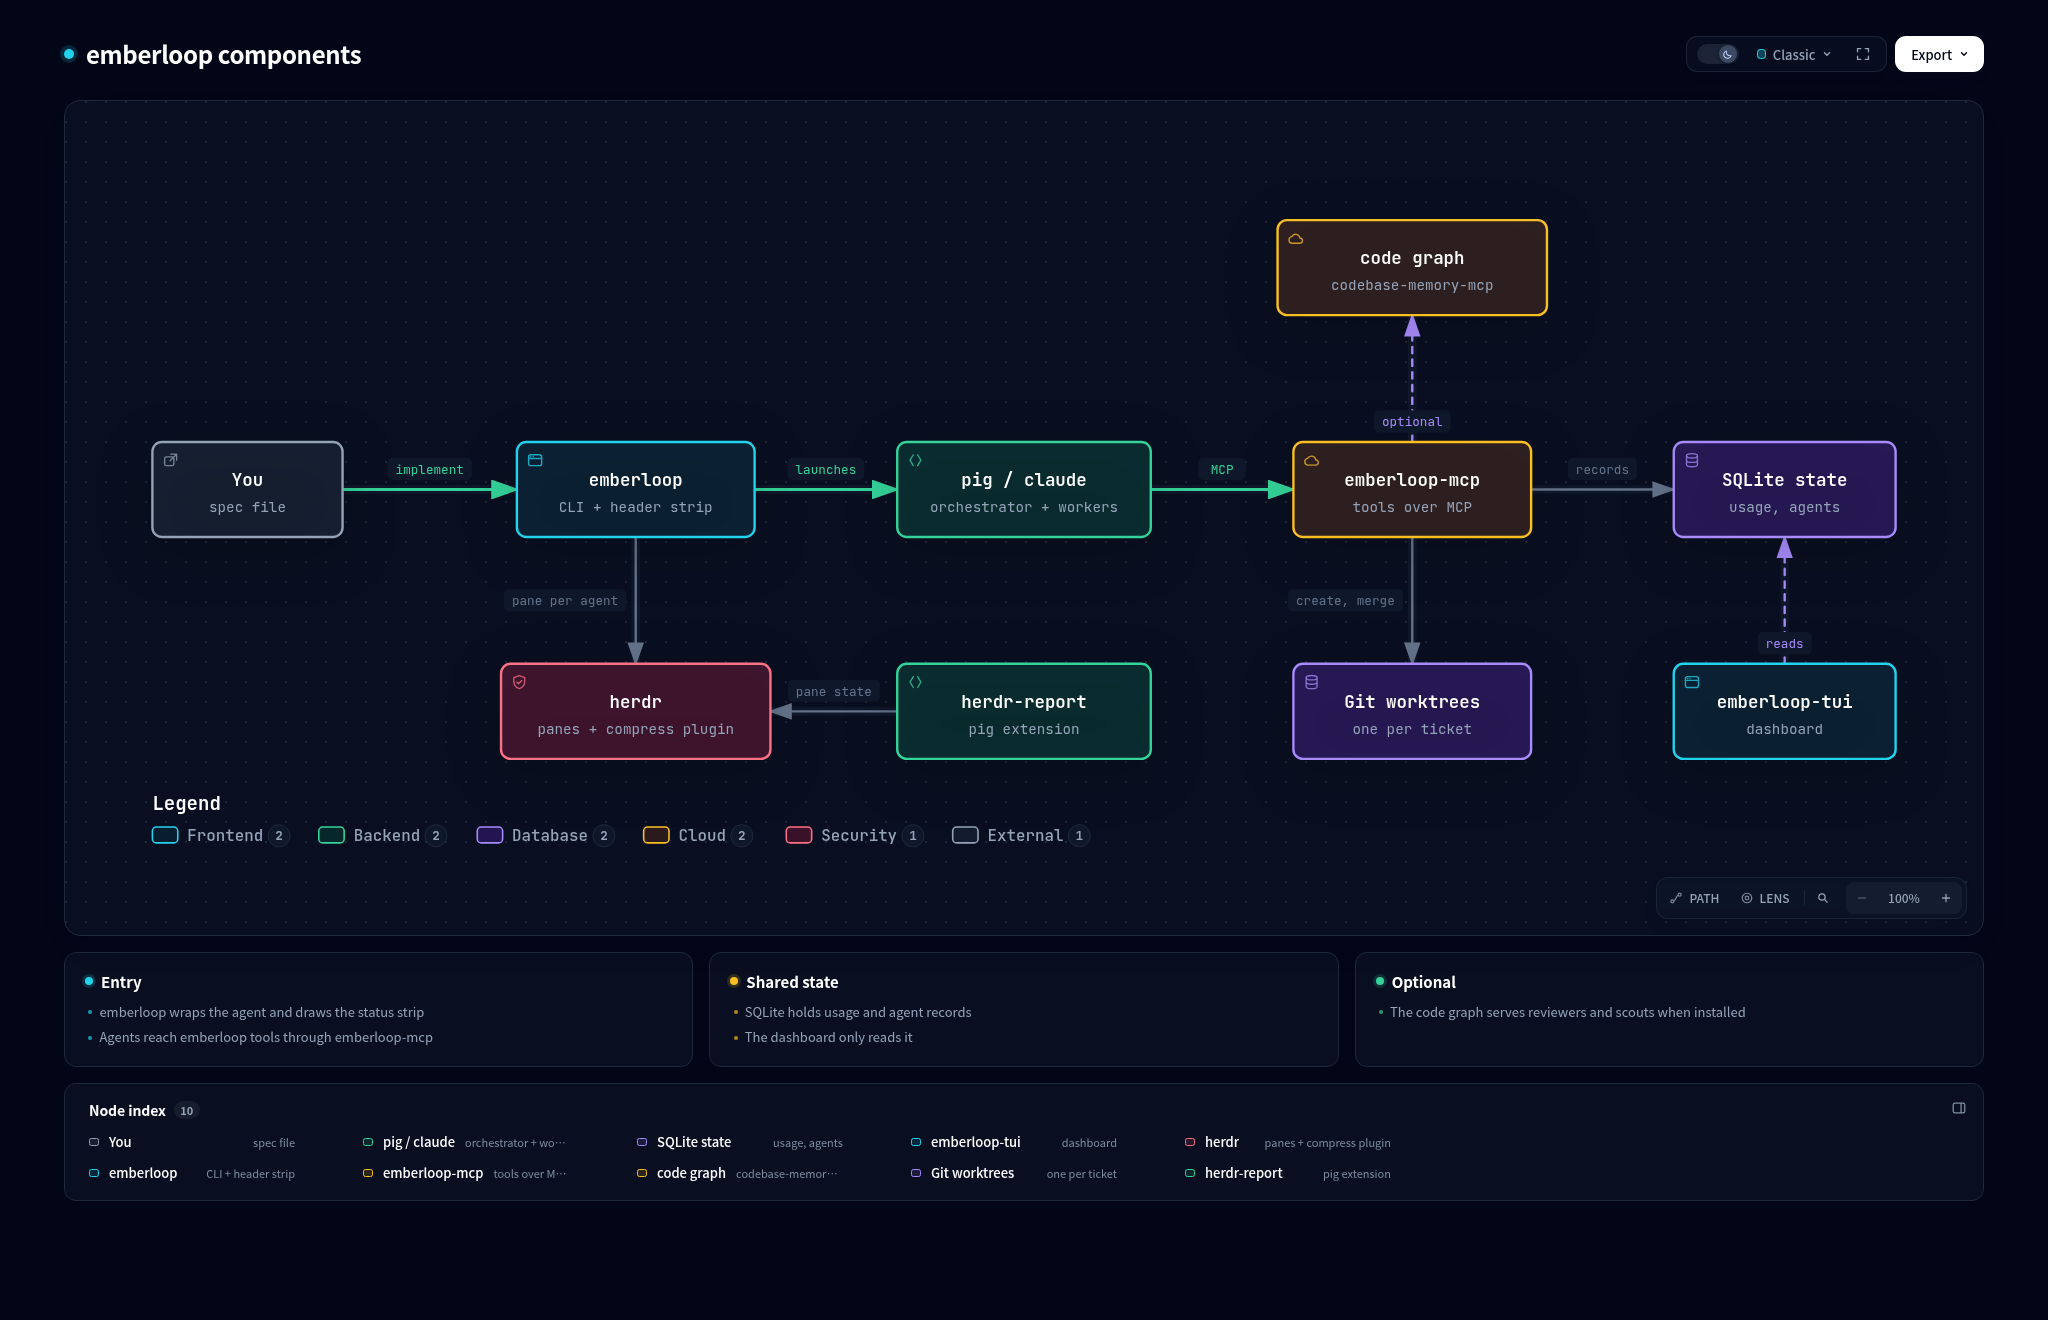
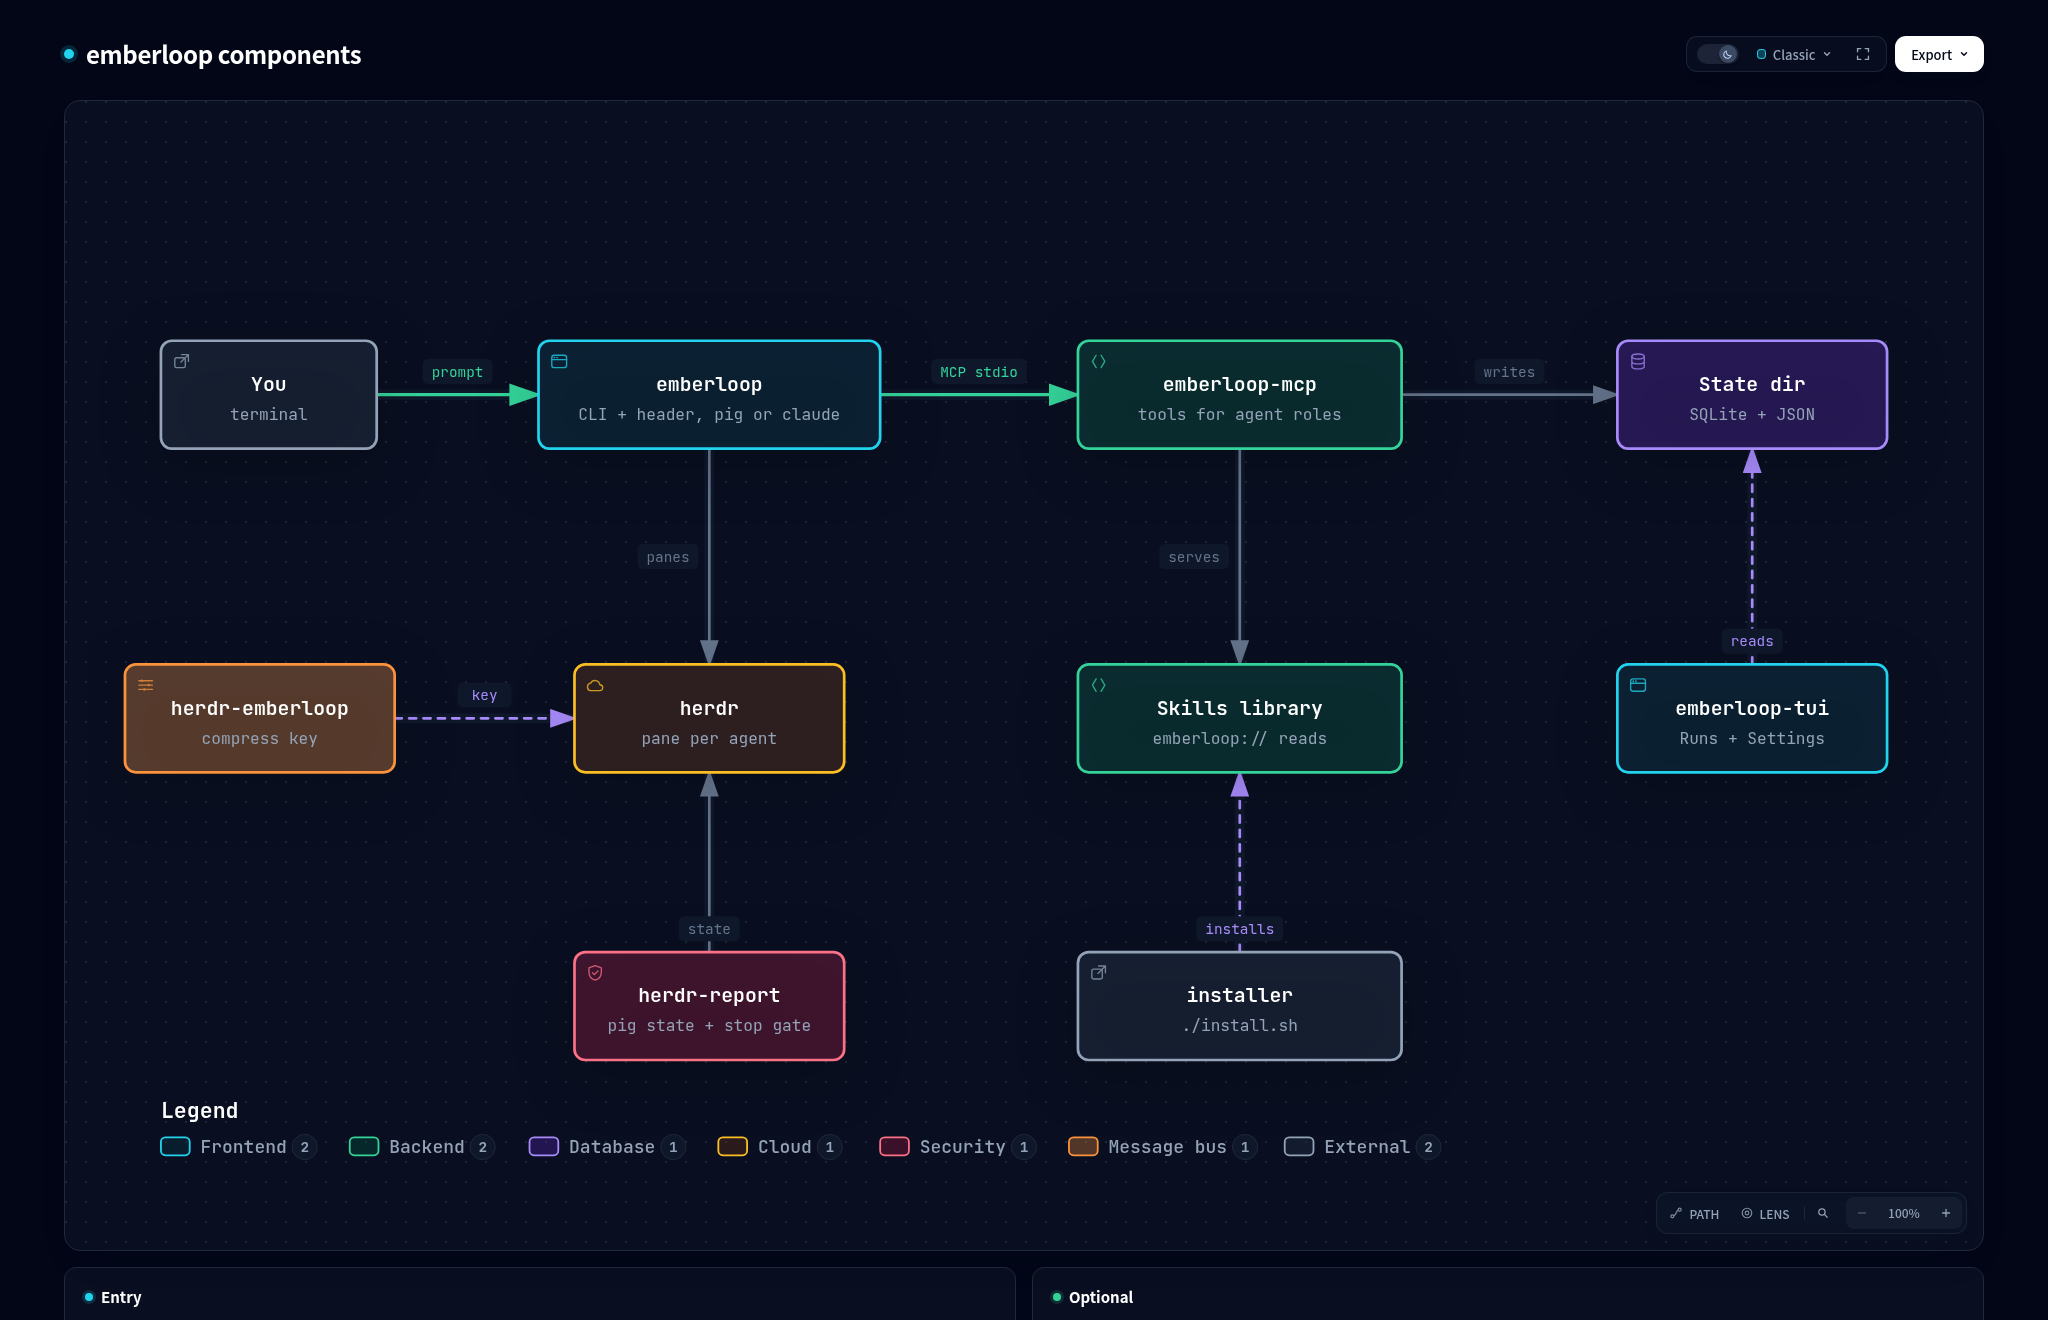
docs: rebuild diagrams and fix README gate wording; wait before Enter in herdr fallback delivery
Diagrams now show finish as rebase + ff-only after every required reviewer passes at the tip, plus kept/discarded/cancelled/blocked states. The herdr send-text fallbacks pause submitSettle before send-keys Enter so claude does not swallow the Enter.

diff --git a/emberloop/transcript.go b/emberloop/transcript.go
@@ -150,6 +150,9 @@ func DeliverPrompt(run Exec, pane, text string) error {
 	}
 	line := strings.Join(strings.Fields(text), " ")
 	for _, args := range [][]string{{"pane", "send-text", pane, line}, {"pane", "send-keys", pane, "Enter"}} {
+		if args[1] == "send-keys" && submitSettle > 0 {
+			time.Sleep(submitSettle)
+		}
 		res, err := run(herdrBin(), args, ExecOpts{Timeout: 15 * time.Second})
 		if err != nil {
 			return err

diff --git a/emberloop/deliver.go b/emberloop/deliver.go
@@ -67,6 +67,9 @@ func deliverNotice(run Exec, pane, text string) error {
 	if res.Code != 0 {
 		return fmt.Errorf("herdr pane send-text %s failed: %s", pane, firstLine(res.Stderr, res.Stdout))
 	}
+	if submitSettle > 0 {
+		time.Sleep(submitSettle)
+	}
 	res, err = run(herdrBin(), []string{"pane", "send-keys", pane, "Enter"}, ExecOpts{Timeout: 15 * time.Second})
 	if err != nil {
 		return err

diff --git a/README.md b/README.md
@@ -1,11 +1,14 @@
 # emberloop
 
-emberloop runs parallel implement-and-review loops for coding agents inside [herdr](https://github.com/ogulcancelik/herdr). An orchestrator session (pig or Claude Code) splits a spec into tickets, spawns one worker per ticket in its own git worktree, has two persistent reviewers judge each worker, and merges a ticket only after the vet-and-test gate and both reviewers pass.
+emberloop runs parallel implement-and-review loops for coding agents inside [herdr](https://github.com/ogulcancelik/herdr). An orchestrator session (pig or Claude Code) splits a spec into tickets, spawns one worker per ticket in its own git worktree, has two persistent reviewers judge each worker, and merges a ticket only after every required reviewer has passed at the ticket's current tip.
 
 Every agent runs in a herdr pane under a two-row status strip that shows model, context use, cost, running tool, queue and usage windows.
 
 <p align="center">
-  <img src="docs/architecture.png" alt="emberloop run: orchestrator spawns a worker per ticket, two reviewers and a vet-and-test gate decide the merge into the spec branch" width="900">
+  <picture>
+    <source media="(prefers-color-scheme: dark)" srcset="docs/architecture-dark.png">
+    <img src="docs/architecture-light.png" alt="emberloop run: the orchestrator spawns a worker per ticket, two reviewers judge it, and finish rebases and fast-forwards the ticket into the spec branch" width="900">
+  </picture>
 </p>
 
 ## Install
@@ -24,16 +27,16 @@ The installer is a terminal UI. It asks for three optional parts and installs ev
 |---|---|
 | pig | the `emberloop` entry in `~/.pig/agent/mcp.json`, the `herdr-report` and `pig-antigravity-auth` extensions linked into `~/.pig/agent/extensions` |
 | claude | the Claude Code CLI, installed with its official script when missing |
-| memory | the code graph MCP (`codebase-memory-mcp`), served to reviewers and scouts |
+| graph | the code graph MCP (`codebase-memory-mcp`), served to reviewers and scouts |
 
-Always installed: herdr (official script, when missing), the `emberloop`, `emberloop-mcp` and `emberloop-tui` binaries in `~/.local/bin`, the herdr compress plugin, the `prefix+shift+c` compress key in `~/.config/herdr/config.toml`, `~/.emberloop/settings.json`, and bun for the skill library. The last two commands, `emberloop deps` and `emberloop skills install`, run on the plain terminal because `deps` can ask for a sudo password.
+Always installed: herdr (official script, when missing), the `emberloop`, `emberloop-mcp` and `emberloop-tui` binaries in `~/.local/bin`, the herdr compress plugin, the `prefix+shift+c` compress key in `~/.config/herdr/config.toml`, `~/.emberloop/settings.json`, and the skill library (fetched with `bunx`, so bun is required). The last two commands, `emberloop deps` and `emberloop skills install`, run on the plain terminal because `deps` can ask for a sudo password.
 
 Put `~/.local/bin` on your `PATH`. Rerunning the installer changes nothing that is already in place. A herdr config is copied to `config.toml.bak` before the first edit.
 
 Flags skip the UI:
 
 ```bash
-./install.sh --yes                        # defaults: pig, claude, memory
+./install.sh --yes                        # defaults: pig, claude, graph
 ./install.sh --yes --claude=false         # pig only
 ./install.sh --yes --graph=false          # no code graph
 ./install.sh --dry-run --yes              # print the steps, change nothing
@@ -66,29 +69,16 @@ Other commands:
 
 ## How a run works
 
-```mermaid
-flowchart LR
-    U([You]) --> O["Orchestrator<br/>pig or claude"]
-    O -- "spawn" --> W1["Worker 01<br/>worktree"]
-    O -- "spawn" --> W2["Worker 02<br/>worktree"]
-    W1 --> R1["Reviewer: spec"]
-    W1 --> R2["Reviewer: standards"]
-    W2 --> R3["Reviewer: spec"]
-    W2 --> R4["Reviewer: standards"]
-    R1 & R2 --> G1{"Gate<br/>vet + test"}
-    R3 & R4 --> G2{"Gate<br/>vet + test"}
-    G1 -- "pass" --> M[("spec branch")]
-    G2 -- "pass" --> M
-    G1 -. "fail or findings" .-> W1
-    G2 -. "fail or findings" .-> W2
-```
+The orchestrator reads a spec, spawns workers, and waits for notices. Each worker implements one ticket in `.emberloop-worktrees/<ticket>` on branch `implement/<ticket>` and submits `done` or `blocked`. At most three workers run at once by default (`max_workers`); extra tickets queue until a slot frees.
 
-The orchestrator reads a spec, spawns workers, and waits for notices. Each worker implements one ticket in `.emberloop-worktrees/<ticket>` and submits `done` or `blocked`. Two reviewers, one for the spec and one for the repository's standards, keep their context across passes. A ticket merges only when the gate and both reviewers pass; findings go back to the same worker.
+Two reviewers, one for the spec and one for the repository's standards, keep their context across passes. They can run the repository's named checks from `.emberloop/check`. Findings go back to the same worker with `tell`, and the loop repeats until both reviewers pass.
+
+`finish` is the merge step. It refuses unless every required reviewer passed at the current tip, so a stale pass does not count. It then rebases the worker branch onto the target and merges it with `git merge --ff-only`. A dirty worktree, a missing pass, or a rebase conflict keeps the worker alive instead of merging.
 
 <p align="center">
   <picture>
     <source media="(prefers-color-scheme: dark)" srcset="docs/sequence-dark.png">
-    <img src="docs/sequence-light.png" alt="Sequence of one ticket: spawn, implement, review, fix loop, gate, merge" width="900">
+    <img src="docs/sequence-light.png" alt="Sequence of one ticket: spawn, implement, review, fix loop, re-review, finish and merge" width="900">
   </picture>
 </p>
 
@@ -106,7 +96,7 @@ The orchestrator reads a spec, spawns workers, and waits for notices. Each worke
 <p align="center">
   <picture>
     <source media="(prefers-color-scheme: dark)" srcset="docs/components-dark.png">
-    <img src="docs/components-light.png" alt="emberloop components: CLI, agent, MCP server, SQLite state, worktrees, herdr, dashboard" width="900">
+    <img src="docs/components-light.png" alt="emberloop components: CLI, MCP server, state dir, herdr, herdr plugin and report extension, skills library, dashboard, installer" width="900">
   </picture>
 </p>
 
